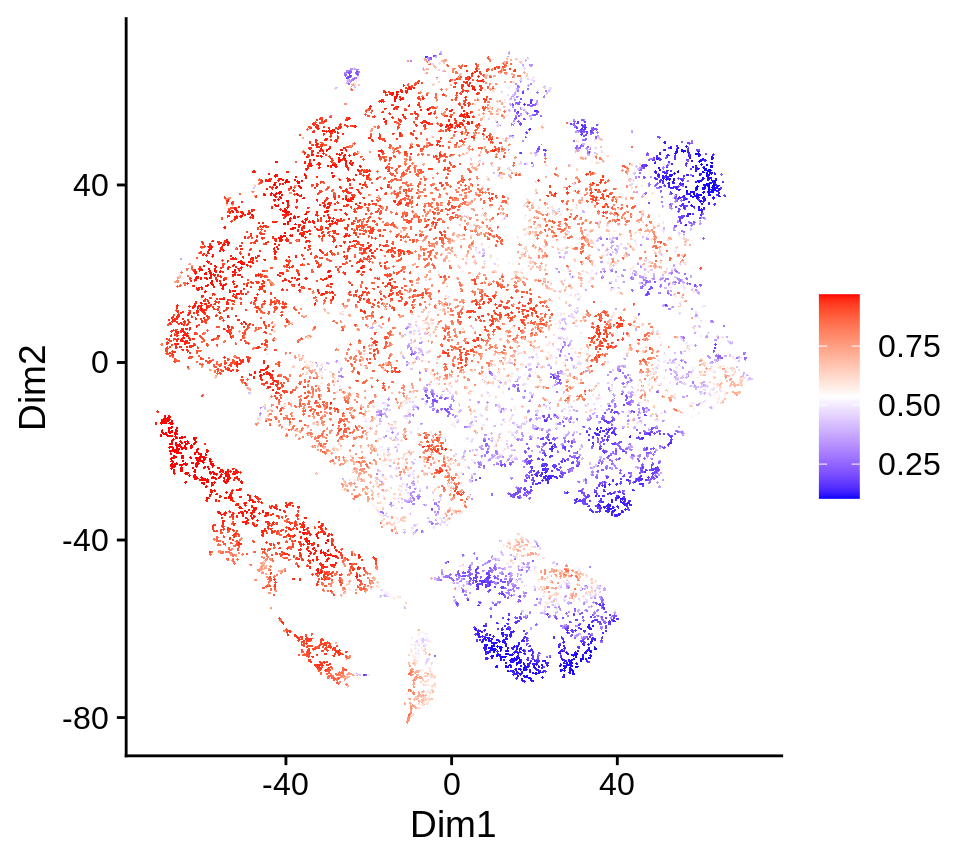
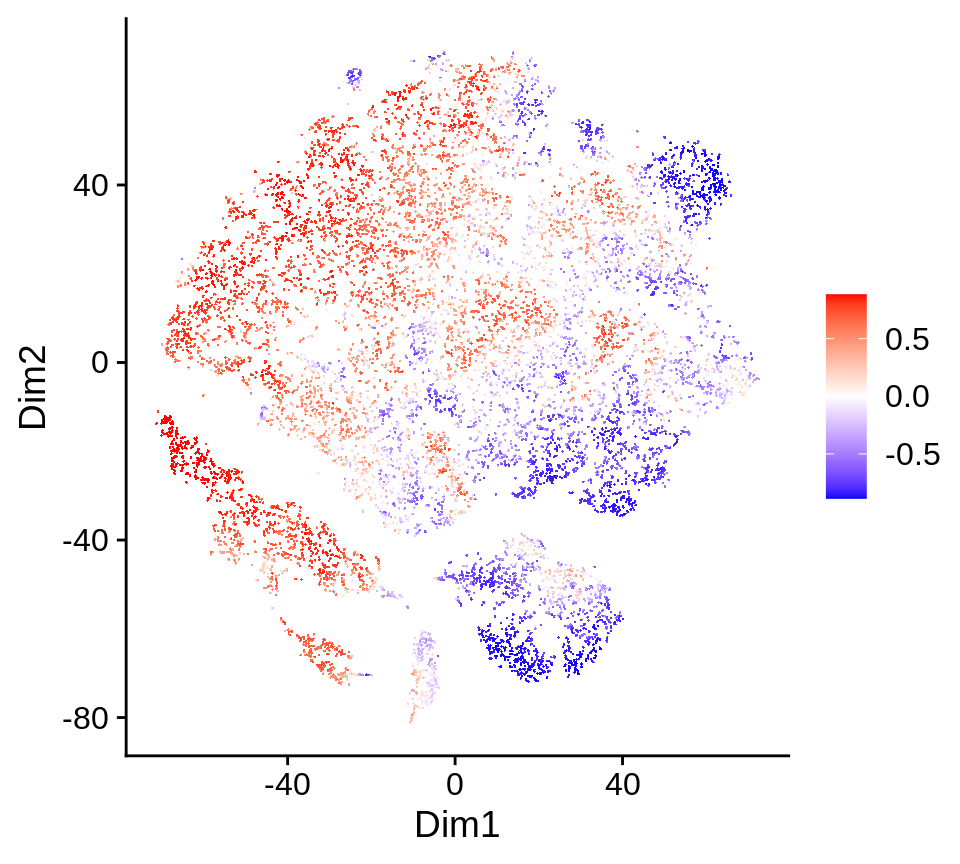
update default

diff --git a/docs/articles/tutorial.html b/docs/articles/tutorial.html
@@ -154,7 +154,7 @@
 <li>
 <code>da.ratio</code>, score vector for each cell</li>
 <li>
-<code>da.pred</code>, prediction values from logistic classifier</li>
+<code>da.pred</code>, DA measure for each cell</li>
 <li>
 <code>da.up</code>, index of DA cells more abundant in <em>labels.2</em> (non-responders)</li>
 <li>
@@ -166,18 +166,21 @@
 ##   ..- attr(*, "dimnames")=List of 2
 ##   .. ..$ : NULL
 ##   .. ..$ : chr [1:10] "50" "100" "150" "200" ...
-##  $ da.pred : num [1:16291] 0.386 0.792 0.679 0.633 0.352 ...</code></pre>
+##  $ da.pred : num [1:16291] -0.5088 0.3308 0.0449 -0.0564 -0.5612 ...</code></pre>
 <p>The prediction values are overlayed on the 2D embedding in the <code>pred.plot</code> slot of the output.</p>
 <div class="sourceCode" id="cb10"><html><body><pre class="r"><span class="no">da_cells</span>$<span class="no">pred.plot</span></pre></body></html></div>
 <p><img src="tutorial_files/figure-html/unnamed-chunk-7-1.png" width="480"></p>
-<p>By default, cells with prediction values in the top and bottom <strong>5%</strong> quantile are selected as DA cells, this can be changed by running <code><a href="../reference/updateDAcells.html">updateDAcells()</a></code>. In this data, the number of cells from non-responder samples are about twice as responder samples. Here we change it to top <strong>10%</strong> (for non-responder) and bottom <strong>5%</strong> (for responder) quantile.</p>
-<div class="sourceCode" id="cb11"><html><body><pre class="r"><span class="no">da_cells</span> <span class="kw">&lt;-</span> <span class="fu"><a href="../reference/updateDAcells.html">updateDAcells</a></span>(
-  <span class="kw">X</span> <span class="kw">=</span> <span class="no">da_cells</span>, <span class="kw">pred.thres</span> <span class="kw">=</span> <span class="fu"><a href="https://rdrr.io/r/base/c.html">c</a></span>(<span class="fl">0.05</span>,<span class="fl">0.9</span>),
+<p>DAseq runs a random permutation on the labels to generate the null distribution for DA measure. We can check the permutation results in the <code>rand.plot</code> slot.</p>
+<div class="sourceCode" id="cb11"><html><body><pre class="r"><span class="no">da_cells</span>$<span class="no">rand.plot</span></pre></body></html></div>
+<p><img src="tutorial_files/figure-html/unnamed-chunk-8-1.png" width="432"></p>
+<p>By default, cells with DA measure values larger than the maximum or small than the minumum than permutated DA measure are selected as DA cells. The threshold can be changed by running <code><a href="../reference/updateDAcells.html">updateDAcells()</a></code> to look at the most salient DA cells. In this data, we use <strong>0.8</strong> (for non-responder) and <strong>-0.8</strong> (for responder).</p>
+<div class="sourceCode" id="cb12"><html><body><pre class="r"><span class="no">da_cells</span> <span class="kw">&lt;-</span> <span class="fu"><a href="../reference/updateDAcells.html">updateDAcells</a></span>(
+  <span class="kw">X</span> <span class="kw">=</span> <span class="no">da_cells</span>, <span class="kw">pred.thres</span> <span class="kw">=</span> <span class="fu"><a href="https://rdrr.io/r/base/c.html">c</a></span>(-<span class="fl">0.8</span>,<span class="fl">0.8</span>),
   <span class="kw">plot.embedding</span> <span class="kw">=</span> <span class="no">X.2d.melanoma</span>
 )</pre></body></html></div>
-<p>Selected DA cells are highlighted in the 2D embedding in the <code>da.cells.plot</code> slot. Cells in red are in the top quantile (these cells are more abundant in non-responder samples), blue in the bottom (these cells are more abundant in responder samples).</p>
-<div class="sourceCode" id="cb12"><html><body><pre class="r"><span class="no">da_cells</span>$<span class="no">da.cells.plot</span></pre></body></html></div>
-<p><img src="tutorial_files/figure-html/unnamed-chunk-9-1.png" width="432"></p>
+<p>Selected DA cells are highlighted in the 2D embedding in the <code>da.cells.plot</code> slot. Cells in red are in the top (these cells are more abundant in non-responder samples), blue in the bottom (these cells are more abundant in responder samples).</p>
+<div class="sourceCode" id="cb13"><html><body><pre class="r"><span class="no">da_cells</span>$<span class="no">da.cells.plot</span></pre></body></html></div>
+<p><img src="tutorial_files/figure-html/unnamed-chunk-10-1.png" width="432"></p>
 </div>
 <div id="get-da-regions" class="section level3">
 <h3 class="hasAnchor">
@@ -191,9 +194,10 @@
 <li>
 <code>resolution</code>: clustering parameter, default 0.05, use a larger value to group DA cells into more regions</li>
 <li>
-<code>min.cell</code>: minimum number of cells, regions with fewer cells will be removed, default 15</li>
+<code>min.cell</code>: minimum number of cells, regions with fewer cells will be removed, default is to use the minumum <em>k</em> value in the <code>k.vector</code>
+</li>
 </ul>
-<div class="sourceCode" id="cb13"><html><body><pre class="r"><span class="no">da_regions</span> <span class="kw">&lt;-</span> <span class="fu"><a href="../reference/getDAregion.html">getDAregion</a></span>(
+<div class="sourceCode" id="cb14"><html><body><pre class="r"><span class="no">da_regions</span> <span class="kw">&lt;-</span> <span class="fu"><a href="../reference/getDAregion.html">getDAregion</a></span>(
   <span class="kw">X</span> <span class="kw">=</span> <span class="no">X.melanoma</span>,
   <span class="kw">da.cells</span> <span class="kw">=</span> <span class="no">da_cells</span>,
   <span class="kw">cell.labels</span> <span class="kw">=</span> <span class="no">X.label.melanoma</span>,
@@ -209,23 +213,23 @@
 <li>
 <code>DA.stat</code>, statistics of each DA subpopulation</li>
 </ul>
-<div class="sourceCode" id="cb14"><html><body><pre class="r"><span class="fu"><a href="https://rdrr.io/r/utils/str.html">str</a></span>(<span class="no">da_regions</span>[<span class="fl">1</span>:<span class="fl">2</span>])</pre></body></html></div>
+<div class="sourceCode" id="cb15"><html><body><pre class="r"><span class="fu"><a href="https://rdrr.io/r/utils/str.html">str</a></span>(<span class="no">da_regions</span>[<span class="fl">1</span>:<span class="fl">2</span>])</pre></body></html></div>
 <pre><code>## List of 2
 ##  $ da.region.label: num [1:16291] 0 0 0 0 0 0 0 0 0 0 ...
-##  $ DA.stat        : num [1:5, 1:3] 0.973 0.97 -0.952 -0.981 -0.939 ...
+##  $ DA.stat        : num [1:5, 1:3] 0.973 0.965 -0.933 -0.976 -0.904 ...
 ##   ..- attr(*, "dimnames")=List of 2
 ##   .. ..$ : NULL
 ##   .. ..$ : chr [1:3] "DA.score" "pval.wilcoxon" "pval.ttest"</code></pre>
 <p>Clustering result is shown in the plot: <code>da.region.plot</code> slot.</p>
-<div class="sourceCode" id="cb16"><html><body><pre class="r"><span class="no">da_regions</span>$<span class="no">da.region.plot</span></pre></body></html></div>
-<p><img src="tutorial_files/figure-html/unnamed-chunk-12-1.png" width="480"></p>
+<div class="sourceCode" id="cb17"><html><body><pre class="r"><span class="no">da_regions</span>$<span class="no">da.region.plot</span></pre></body></html></div>
+<p><img src="tutorial_files/figure-html/unnamed-chunk-13-1.png" width="480"></p>
 </div>
 <div id="get-markers-for-each-da-subpopulation-with-stg" class="section level3">
 <h3 class="hasAnchor">
 <a href="#get-markers-for-each-da-subpopulation-with-stg" class="anchor"></a>Get markers for each DA subpopulation with STG</h3>
 <p>The final step of DAseq is to characterize each DA subpopulation by detecting genes that seprate the DA subpopulation from the rest of the cells through STG (stochastic gates).</p>
 <p>The gene expression data is NOT included in the DAseq package and needs to be downloaded. This code will download the data to the current working directory, and load this data into R.</p>
-<div class="sourceCode" id="cb17"><html><body><pre class="r"><span class="fu"><a href="https://rdrr.io/r/utils/download.file.html">download.file</a></span>(
+<div class="sourceCode" id="cb18"><html><body><pre class="r"><span class="fu"><a href="https://rdrr.io/r/utils/download.file.html">download.file</a></span>(
   <span class="st">"ftp://ftp.ncbi.nlm.nih.gov/geo/series/GSE120nnn/GSE120575/suppl/GSE120575_Sade_Feldman_melanoma_single_cells_TPM_GEO.txt.gz"</span>,
   <span class="st">"./GSE120575_Sade_Feldman_melanoma_single_cells_TPM_GEO.txt.gz"</span>
 )
@@ -235,7 +239,7 @@
 )
 <span class="no">X.data.melanoma</span> <span class="kw">&lt;-</span> <span class="fu"><a href="https://rdrr.io/r/base/matrix.html">as.matrix</a></span>(<span class="no">X.data.melanoma</span>[,-<span class="fl">16292</span>])</pre></body></html></div>
 <p>Then, we will use STG to identify markers for each DA subpopulation. The input parameters for STG are the normalized gene expression matrix, and the output from the function <code><a href="../reference/getDAregion.html">getDAregion()</a></code>.</p>
-<div class="sourceCode" id="cb18"><html><body><pre class="r"><span class="no">STG_markers</span> <span class="kw">&lt;-</span> <span class="fu"><a href="../reference/STGmarkerFinder.html">STGmarkerFinder</a></span>(
+<div class="sourceCode" id="cb19"><html><body><pre class="r"><span class="no">STG_markers</span> <span class="kw">&lt;-</span> <span class="fu"><a href="../reference/STGmarkerFinder.html">STGmarkerFinder</a></span>(
   <span class="kw">X</span> <span class="kw">=</span> <span class="no">X.data.melanoma</span>,
   <span class="kw">da.regions</span> <span class="kw">=</span> <span class="no">da_regions</span>,
   <span class="kw">lambda</span> <span class="kw">=</span> <span class="fl">1.5</span>, <span class="kw">n.runs</span> <span class="kw">=</span> <span class="fl">5</span>, <span class="kw">return.model</span> <span class="kw">=</span> <span class="no">T</span>,
@@ -251,21 +255,21 @@
 <code>model</code>, the actual model from STG for each DA subpopulation, please refer to the documentation of <code><a href="../reference/STGmarkerFinder.html">STGmarkerFinder()</a></code>
 </li>
 </ul>
-<p>Top markers for DA region 2 are shown:</p>
-<div class="sourceCode" id="cb19"><html><body><pre class="r"><span class="fu"><a href="https://rdrr.io/r/utils/head.html">head</a></span>(<span class="no">STG_markers</span>$<span class="no">da.markers</span><span class="kw">[[</span><span class="st">"1"</span>]])</pre></body></html></div>
-<pre><code>##            gene avg_logFC       p_value
-## VCAM1     VCAM1  2.378151  0.000000e+00
-## PRF1       PRF1  1.291038 1.192611e-257
-## HAVCR2   HAVCR2  1.513924 1.702221e-247
-## TNFRSF9 TNFRSF9  1.795322 1.622910e-234
-## NKG7       NKG7  1.071042 7.919710e-227
-## CD38       CD38  1.486187 9.654928e-218</code></pre>
+<p>Top markers for DA region 5 are shown:</p>
+<div class="sourceCode" id="cb20"><html><body><pre class="r"><span class="fu"><a href="https://rdrr.io/r/utils/head.html">head</a></span>(<span class="no">STG_markers</span>$<span class="no">da.markers</span><span class="kw">[[</span><span class="st">"5"</span>]])</pre></body></html></div>
+<pre><code>##        gene avg_logFC       p_value
+## TCF7   TCF7 1.8865021 4.261047e-122
+## RPL13 RPL13 0.1765772 2.421585e-113
+## RPL3   RPL3 0.2037486 1.516596e-102
+## LEF1   LEF1 2.3623672 6.638429e-102
+## RPS6   RPS6 0.2002730 2.013261e-100
+## RPS3A RPS3A 0.2040410  2.452806e-98</code></pre>
 <p>In the <code>model</code> slot, predictions from STG are available. These predictions are linear combinations of a limited set of genes that best separate the DA subpopulation from the rest of the cells.</p>
 <p>For example, here we will plot the prediction value from STG for DA subpopulation 5: the <code>pred</code> slot of the 5th list in the <code>model</code> slot of the output.</p>
-<div class="sourceCode" id="cb21"><html><body><pre class="r"><span class="fu"><a href="../reference/plotCellScore.html">plotCellScore</a></span>(
+<div class="sourceCode" id="cb22"><html><body><pre class="r"><span class="fu"><a href="../reference/plotCellScore.html">plotCellScore</a></span>(
   <span class="kw">X</span> <span class="kw">=</span> <span class="no">X.2d.melanoma</span>, <span class="kw">score</span> <span class="kw">=</span> <span class="no">STG_markers</span>$<span class="no">model</span><span class="kw">[[</span><span class="st">"5"</span>]]$<span class="no">pred</span>
 )</pre></body></html></div>
-<p><img src="tutorial_files/figure-html/unnamed-chunk-16-1.png" width="480"></p>
+<p><img src="tutorial_files/figure-html/unnamed-chunk-17-1.png" width="480"></p>
 </div>
 </div>
   </div>

diff --git a/docs/reference/getDAcells.html b/docs/reference/getDAcells.html
@@ -133,8 +133,8 @@ that may reside in DA regions.</p>
     </div>
 
     <pre class="usage"><span class='fu'>getDAcells</span>(<span class='no'>X</span>, <span class='no'>cell.labels</span>, <span class='no'>labels.1</span>, <span class='no'>labels.2</span>, <span class='kw'>k.vector</span> <span class='kw'>=</span> <span class='kw'>NULL</span>,
-  <span class='kw'>save.knn</span> <span class='kw'>=</span> <span class='no'>F</span>, <span class='kw'>alpha</span> <span class='kw'>=</span> <span class='fl'>0</span>, <span class='kw'>k.folds</span> <span class='kw'>=</span> <span class='fl'>10</span>, <span class='kw'>n.runs</span> <span class='kw'>=</span> <span class='fl'>10</span>,
-  <span class='kw'>pred.thres</span> <span class='kw'>=</span> <span class='fu'><a href='https://rdrr.io/r/base/c.html'>c</a></span>(<span class='fl'>0.05</span>, <span class='fl'>0.95</span>), <span class='kw'>do.plot</span> <span class='kw'>=</span> <span class='no'>T</span>, <span class='kw'>plot.embedding</span> <span class='kw'>=</span> <span class='kw'>NULL</span>,
+  <span class='kw'>save.knn</span> <span class='kw'>=</span> <span class='no'>F</span>, <span class='kw'>alpha</span> <span class='kw'>=</span> <span class='fl'>0</span>, <span class='kw'>k.folds</span> <span class='kw'>=</span> <span class='fl'>10</span>, <span class='kw'>n.runs</span> <span class='kw'>=</span> <span class='fl'>5</span>, <span class='kw'>n.rand</span> <span class='kw'>=</span> <span class='fl'>2</span>,
+  <span class='kw'>pred.thres</span> <span class='kw'>=</span> <span class='kw'>NULL</span>, <span class='kw'>do.plot</span> <span class='kw'>=</span> <span class='no'>T</span>, <span class='kw'>plot.embedding</span> <span class='kw'>=</span> <span class='kw'>NULL</span>,
   <span class='kw'>size</span> <span class='kw'>=</span> <span class='fl'>0.5</span>)</pre>
     
     <h2 class="hasAnchor" id="arguments"><a class="anchor" href="#arguments"></a>Arguments</h2>
@@ -174,12 +174,16 @@ that may reside in DA regions.</p>
     </tr>
     <tr>
       <th>n.runs</th>
-      <td><p>integer, number of times to run the neural network to get the predictions, default 10</p></td>
+      <td><p>integer, number of times to run the neural network to get the predictions, default 5</p></td>
+    </tr>
+    <tr>
+      <th>n.rand</th>
+      <td><p>integer, number of random permutations to run, default 2</p></td>
     </tr>
     <tr>
       <th>pred.thres</th>
-      <td><p>length-2 vector, top and bottom threshold on the predictions from the
-logistic classification, default c(0.05,0.95)</p></td>
+      <td><p>length-2 vector, top and bottom threshold on DA measure,
+default NULL, select significant DA cells based on permutation</p></td>
     </tr>
     <tr>
       <th>do.plot</th>

diff --git a/docs/reference/updateDAcells.html b/docs/reference/updateDAcells.html
@@ -126,7 +126,7 @@
     
     </div>
 
-    <pre class="usage"><span class='fu'>updateDAcells</span>(<span class='no'>X</span>, <span class='kw'>pred.thres</span> <span class='kw'>=</span> <span class='fu'><a href='https://rdrr.io/r/base/c.html'>c</a></span>(<span class='fl'>0.05</span>, <span class='fl'>0.95</span>), <span class='kw'>alpha</span> <span class='kw'>=</span> <span class='kw'>NULL</span>,
+    <pre class="usage"><span class='fu'>updateDAcells</span>(<span class='no'>X</span>, <span class='kw'>pred.thres</span> <span class='kw'>=</span> <span class='kw'>NULL</span>, <span class='kw'>force.thres</span> <span class='kw'>=</span> <span class='no'>F</span>, <span class='kw'>alpha</span> <span class='kw'>=</span> <span class='kw'>NULL</span>,
   <span class='kw'>k.folds</span> <span class='kw'>=</span> <span class='fl'>10</span>, <span class='kw'>n.runs</span> <span class='kw'>=</span> <span class='fl'>10</span>, <span class='kw'>cell.labels</span> <span class='kw'>=</span> <span class='kw'>NULL</span>, <span class='kw'>labels.1</span> <span class='kw'>=</span> <span class='kw'>NULL</span>,
   <span class='kw'>labels.2</span> <span class='kw'>=</span> <span class='kw'>NULL</span>, <span class='kw'>do.plot</span> <span class='kw'>=</span> <span class='no'>T</span>, <span class='kw'>plot.embedding</span> <span class='kw'>=</span> <span class='kw'>NULL</span>, <span class='kw'>size</span> <span class='kw'>=</span> <span class='fl'>0.5</span>)</pre>
     
@@ -139,8 +139,12 @@
     </tr>
     <tr>
       <th>pred.thres</th>
-      <td><p>length-2 vector, top and bottom threshold on the predictions from the
-logistic classification, default c(0.05,0.95)</p></td>
+      <td><p>length-2 vector, top and bottom threshold on DA measure,
+default NULL, select significant DA cells based on permutation</p></td>
+    </tr>
+    <tr>
+      <th>force.thres</th>
+      <td><p>a logical value to indicate whether to forcefully use pred.thres without considering significance, default False</p></td>
     </tr>
     <tr>
       <th>alpha</th>

diff --git a/docs/reference/getDAregion.html b/docs/reference/getDAregion.html
@@ -130,7 +130,7 @@ coherent DA regions.</p>
 
     <pre class="usage"><span class='fu'>getDAregion</span>(<span class='no'>X</span>, <span class='no'>da.cells</span>, <span class='no'>cell.labels</span>, <span class='no'>labels.1</span>, <span class='no'>labels.2</span>,
   <span class='kw'>prune.SNN</span> <span class='kw'>=</span> <span class='fl'>1</span>/<span class='fl'>15</span>, <span class='kw'>resolution</span> <span class='kw'>=</span> <span class='fl'>0.05</span>, <span class='kw'>group.singletons</span> <span class='kw'>=</span> <span class='no'>F</span>,
-  <span class='kw'>min.cell</span> <span class='kw'>=</span> <span class='fl'>15</span>, <span class='kw'>do.plot</span> <span class='kw'>=</span> <span class='no'>T</span>, <span class='kw'>plot.embedding</span> <span class='kw'>=</span> <span class='kw'>NULL</span>, <span class='kw'>size</span> <span class='kw'>=</span> <span class='fl'>0.5</span>,
+  <span class='kw'>min.cell</span> <span class='kw'>=</span> <span class='kw'>NULL</span>, <span class='kw'>do.plot</span> <span class='kw'>=</span> <span class='no'>T</span>, <span class='kw'>plot.embedding</span> <span class='kw'>=</span> <span class='kw'>NULL</span>, <span class='kw'>size</span> <span class='kw'>=</span> <span class='fl'>0.5</span>,
   <span class='kw'>do.label</span> <span class='kw'>=</span> <span class='no'>F</span>, <span class='no'>...</span>)</pre>
     
     <h2 class="hasAnchor" id="arguments"><a class="anchor" href="#arguments"></a>Arguments</h2>
@@ -170,7 +170,7 @@ coherent DA regions.</p>
     </tr>
     <tr>
       <th>min.cell</th>
-      <td><p>integer, number of cells below which a DA region will be removed as outliers, default 15</p></td>
+      <td><p>integer, number of cells below which a DA region will be removed as outliers, default NULL, use minimum k value in k-vector</p></td>
     </tr>
     <tr>
       <th>do.plot</th>
